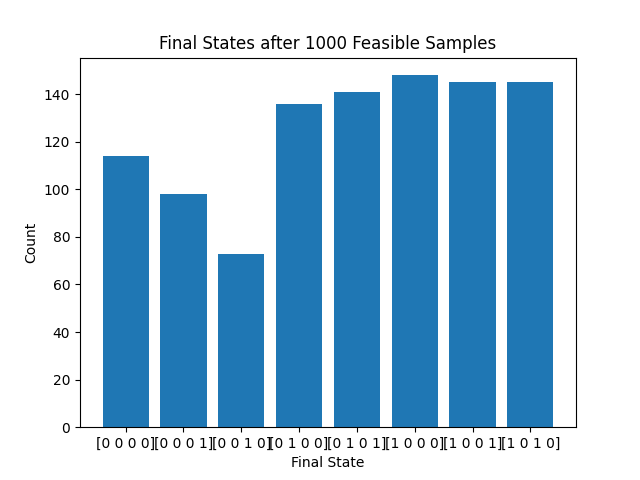
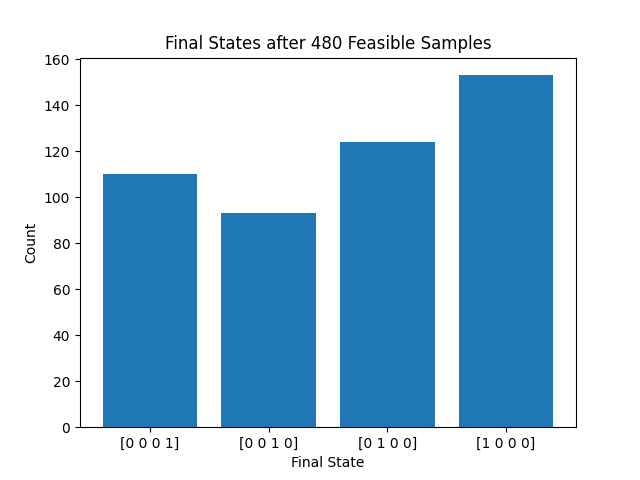
filtered QPU output for only valid end states

diff --git a/QuantumWalk/quantWalk.py b/QuantumWalk/quantWalk.py
@@ -44,13 +44,16 @@ def get_counts(set):
     ret = {}
     num_feasible = 0
     for entry in set.record:
-        ret[str(entry[0])] = entry[2]
-        num_feasible += entry[2]
+        if sum(entry[0]) == 1: #filter for only valid solutions
+            ret[str(entry[0])] = entry[2]
+            num_feasible += entry[2]
     return ret, num_feasible
 
 results_count, num_feasible = get_counts(qsampleset)
+
 lists = sorted(results_count.items())
 x, y = zip(*lists)
+
 plt.bar(x, y)
 plt.xlabel("Final State")
 plt.ylabel("Count")
